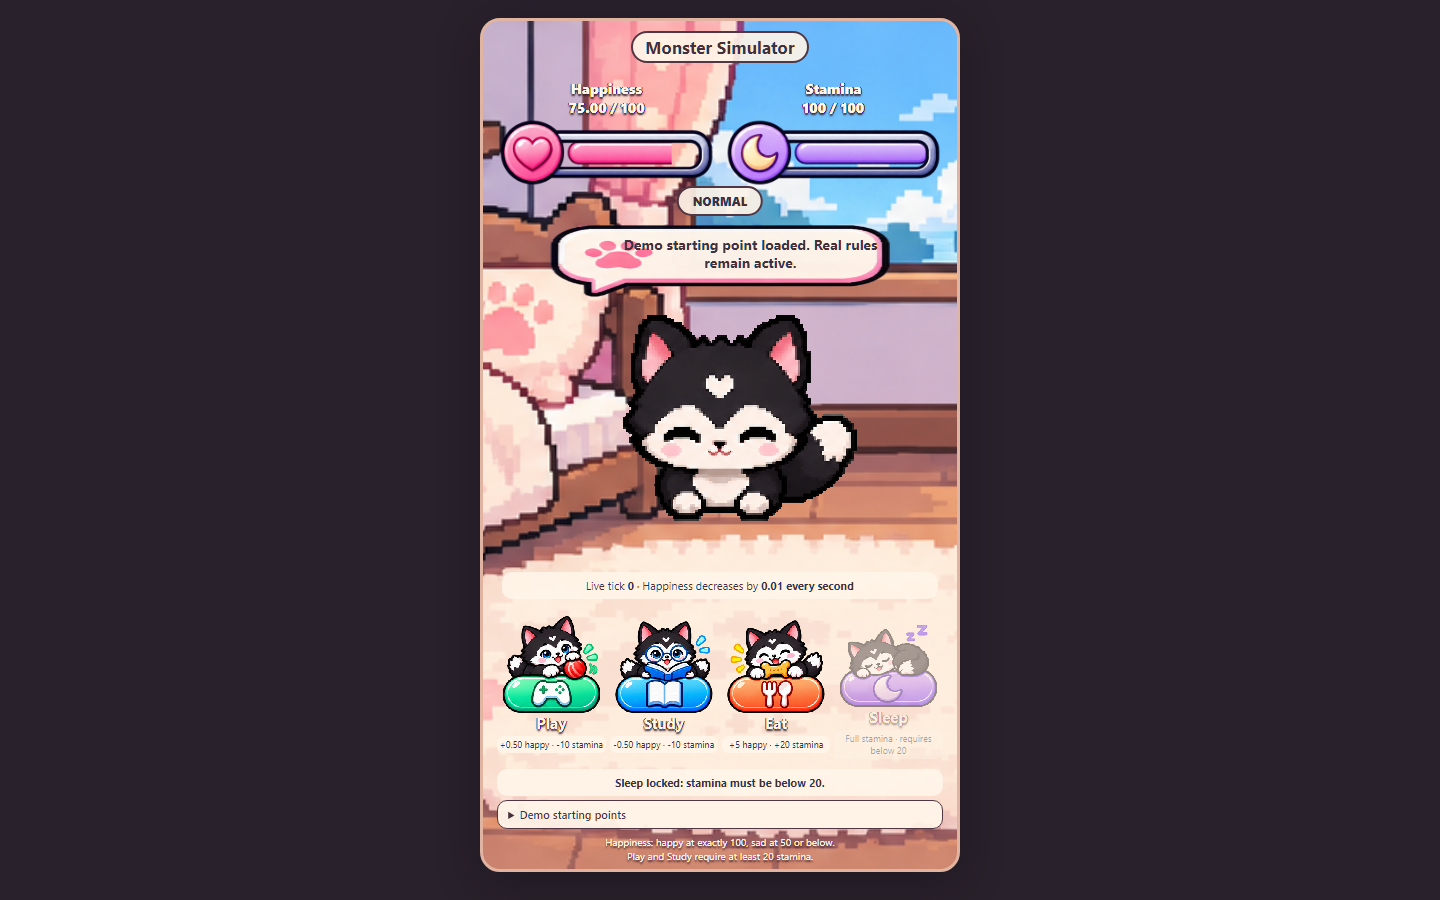
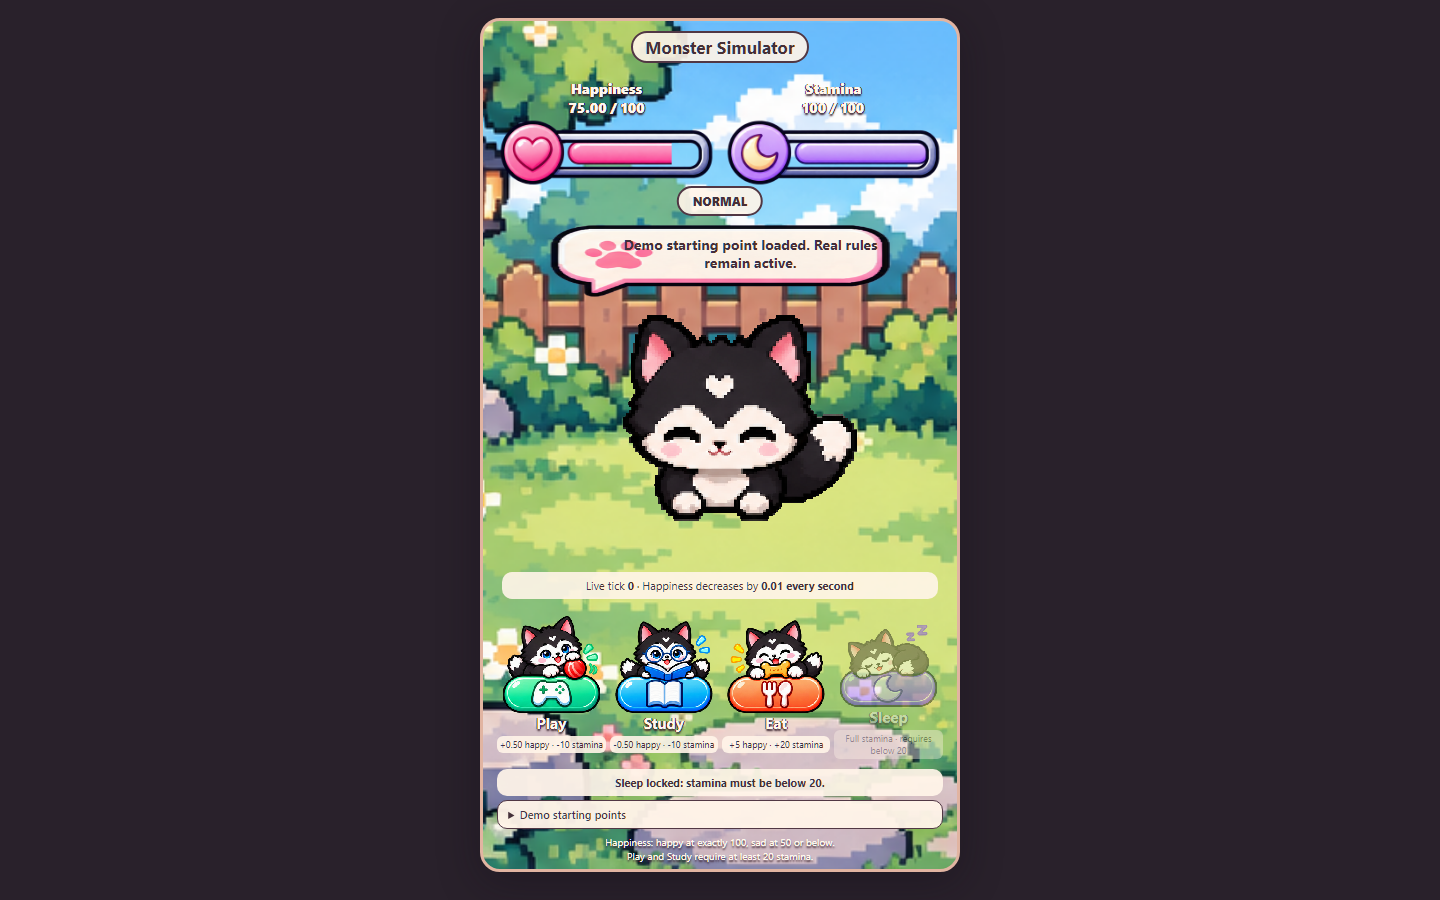
style(monster): use the backyard background

Changed region(s): [[0.3125, 0.0, 0.6875, 0.9644]]

diff --git a/style.css b/style.css
@@ -1,4 +1,4 @@
-:root{font-family:system-ui,sans-serif;color:#443039;background:#29212b}*{box-sizing:border-box}body{margin:0}main{position:relative;width:min(100%,480px);height:854px;min-height:100svh;margin:0 auto;background:url('assets/bedroom.png') center/cover;overflow:hidden}header{position:absolute;top:10px;left:0;right:0;text-align:center}h1{display:inline-block;margin:0;padding:3px 12px;border-radius:20px;font-size:17px;background:#fff4e8e8;border:2px solid #513744}.meters{position:absolute;top:58px;left:3%;right:3%;display:grid;grid-template-columns:1fr 1fr;gap:8px;z-index:2}label{position:relative;display:block;text-align:center;font-size:14px;font-weight:800;color:#fff7ed;text-shadow:0 2px 2px #39212d,1px 0 #39212d,-1px 0 #39212d}strong{display:block;font-size:14px;font-variant-numeric:tabular-nums}.meter-art{display:block;position:relative;width:100%;aspect-ratio:496/160}.meter-frame{position:absolute;width:100%;inset:0}.meter-fill{position:absolute;width:65.73%;height:43.75%;left:30.44%;top:28.13%;object-fit:fill}progress{position:absolute;width:1px;height:1px;opacity:0}.room{position:absolute;inset:0;pointer-events:none}.mood{position:absolute;top:165px;left:50%;transform:translateX(-50%);padding:5px 14px;border-radius:30px;background:#fff4e8e8;border:2px solid #513744;font-weight:800;font-size:12px}body[data-mood=happy] .mood{background:#ffe28c}body[data-mood=sad] .mood{background:#c9dbf2}#pet{position:absolute;top:32%;left:50%;transform:translateX(-50%);width:76%;height:36%;object-fit:contain;image-rendering:pixelated}#bubble{position:absolute;top:23.8%;left:13%;width:74%;min-height:76px;margin:0;background:url('assets/speech_bubble.png') center/100% 100% no-repeat;padding:20px 17px 20px 64px;text-align:center;display:flex;align-items:center;justify-content:center;font-size:14px;font-weight:700;line-height:1.25}.decay{position:absolute;top:70%;left:4%;right:4%;margin:0;padding:6px;text-align:center;border-radius:10px;background:#fff4e8e8;font-size:11px}.actions{position:absolute;bottom:110px;left:3%;right:3%;display:grid;grid-template-columns:repeat(4,1fr);gap:4px}button{font:inherit;color:#fff7ed;border:0;background:none;cursor:pointer;padding:0;text-shadow:0 2px 2px #39212d,1px 0 #39212d,-1px 0 #39212d}button img{display:block;width:100%;aspect-ratio:1;object-fit:contain;image-rendering:pixelated;transition:transform .12s}button:hover:enabled img{transform:translateY(-3px)}button:active:enabled img{transform:scale(.94)}button:focus-visible{outline:3px solid #fff2ba;outline-offset:2px;border-radius:10px}button:disabled{opacity:.42;cursor:not-allowed}button b{display:block;font-size:15px;margin-top:-7px}button small{display:block;font-size:9px;line-height:1.4;margin-top:3px}#restriction{position:absolute;bottom:73px;left:3%;right:3%;margin:0;background:#fff4e8ee;padding:6px;border-radius:10px;text-align:center;font-size:11px;font-weight:700}details{position:absolute;bottom:40px;left:3%;right:3%;z-index:5;font-size:11px;background:#fff4e8f5;border:1px solid #513744;border-radius:10px;padding:6px 10px}summary{cursor:pointer;font-weight:600}details p{line-height:1.5}.demo{display:grid;grid-template-columns:1fr 1fr;gap:6px}.demo button{text-shadow:none;background:#f3dcc9;color:#443039;font-size:12px;padding:8px;border:1px solid #caa38c;border-radius:8px}footer{position:absolute;bottom:6px;left:0;right:0;text-align:center;color:#fff9ef;text-shadow:0 2px 2px #39212d;font-size:10px;line-height:1.35}@media(min-width:600px){main{min-height:0;margin:18px auto;border:3px solid #e1b4a1;border-radius:20px;box-shadow:0 10px 40px #130c1960}}@media(max-width:480px){main{height:max(720px,100svh)}#bubble{font-size:12px;min-height:70px;padding-left:54px}.mood{top:151px}}@media(prefers-reduced-motion:reduce){button img{transition:none}}
+:root{font-family:system-ui,sans-serif;color:#443039;background:#29212b}*{box-sizing:border-box}body{margin:0}main{position:relative;width:min(100%,480px);height:854px;min-height:100svh;margin:0 auto;background:url('assets/garden.png') center/cover;overflow:hidden}header{position:absolute;top:10px;left:0;right:0;text-align:center}h1{display:inline-block;margin:0;padding:3px 12px;border-radius:20px;font-size:17px;background:#fff4e8e8;border:2px solid #513744}.meters{position:absolute;top:58px;left:3%;right:3%;display:grid;grid-template-columns:1fr 1fr;gap:8px;z-index:2}label{position:relative;display:block;text-align:center;font-size:14px;font-weight:800;color:#fff7ed;text-shadow:0 2px 2px #39212d,1px 0 #39212d,-1px 0 #39212d}strong{display:block;font-size:14px;font-variant-numeric:tabular-nums}.meter-art{display:block;position:relative;width:100%;aspect-ratio:496/160}.meter-frame{position:absolute;width:100%;inset:0}.meter-fill{position:absolute;width:65.73%;height:43.75%;left:30.44%;top:28.13%;object-fit:fill}progress{position:absolute;width:1px;height:1px;opacity:0}.room{position:absolute;inset:0;pointer-events:none}.mood{position:absolute;top:165px;left:50%;transform:translateX(-50%);padding:5px 14px;border-radius:30px;background:#fff4e8e8;border:2px solid #513744;font-weight:800;font-size:12px}body[data-mood=happy] .mood{background:#ffe28c}body[data-mood=sad] .mood{background:#c9dbf2}#pet{position:absolute;top:32%;left:50%;transform:translateX(-50%);width:76%;height:36%;object-fit:contain;image-rendering:pixelated}#bubble{position:absolute;top:23.8%;left:13%;width:74%;min-height:76px;margin:0;background:url('assets/speech_bubble.png') center/100% 100% no-repeat;padding:20px 17px 20px 64px;text-align:center;display:flex;align-items:center;justify-content:center;font-size:14px;font-weight:700;line-height:1.25}.decay{position:absolute;top:70%;left:4%;right:4%;margin:0;padding:6px;text-align:center;border-radius:10px;background:#fff4e8e8;font-size:11px}.actions{position:absolute;bottom:110px;left:3%;right:3%;display:grid;grid-template-columns:repeat(4,1fr);gap:4px}button{font:inherit;color:#fff7ed;border:0;background:none;cursor:pointer;padding:0;text-shadow:0 2px 2px #39212d,1px 0 #39212d,-1px 0 #39212d}button img{display:block;width:100%;aspect-ratio:1;object-fit:contain;image-rendering:pixelated;transition:transform .12s}button:hover:enabled img{transform:translateY(-3px)}button:active:enabled img{transform:scale(.94)}button:focus-visible{outline:3px solid #fff2ba;outline-offset:2px;border-radius:10px}button:disabled{opacity:.42;cursor:not-allowed}button b{display:block;font-size:15px;margin-top:-7px}button small{display:block;font-size:9px;line-height:1.4;margin-top:3px}#restriction{position:absolute;bottom:73px;left:3%;right:3%;margin:0;background:#fff4e8ee;padding:6px;border-radius:10px;text-align:center;font-size:11px;font-weight:700}details{position:absolute;bottom:40px;left:3%;right:3%;z-index:5;font-size:11px;background:#fff4e8f5;border:1px solid #513744;border-radius:10px;padding:6px 10px}summary{cursor:pointer;font-weight:600}details p{line-height:1.5}.demo{display:grid;grid-template-columns:1fr 1fr;gap:6px}.demo button{text-shadow:none;background:#f3dcc9;color:#443039;font-size:12px;padding:8px;border:1px solid #caa38c;border-radius:8px}footer{position:absolute;bottom:6px;left:0;right:0;text-align:center;color:#fff9ef;text-shadow:0 2px 2px #39212d;font-size:10px;line-height:1.35}@media(min-width:600px){main{min-height:0;margin:18px auto;border:3px solid #e1b4a1;border-radius:20px;box-shadow:0 10px 40px #130c1960}}@media(max-width:480px){main{height:max(720px,100svh)}#bubble{font-size:12px;min-height:70px;padding-left:54px}.mood{top:151px}}@media(prefers-reduced-motion:reduce){button img{transition:none}}
 
 details[open]{bottom:auto;top:43%;max-height:23%;overflow:auto}
 

diff --git a/README.md b/README.md
@@ -6,7 +6,7 @@ Happiness is capped at 100 and decreases by exactly 0.01 once per second. Play a
 
 Play and Study work at stamina 20 but lock below 20. Sleep works only below 20. Happiness exactly 100 shows the happy animation; 50 or below shows sad. The next passive tick takes 100 to 99.99, so the happy state correctly ends then. Mood animations take priority over action animations.
 
-The model stores integer hundredths to avoid floating-point drift at the exact 100 and 50 boundaries. The layout matches PocketPet: a full-height room, glossy action buttons, floating speech bubble and illustrated meters. Only Happiness, Stamina and the four assignment actions remain. Per-frame body centers keep the tail from shifting the pup sideways. Browser animation frames update sprites at approximately six frames per second. Game ticks are independent of animation speed.
+The model stores integer hundredths to avoid floating-point drift at the exact 100 and 50 boundaries. The layout matches PocketPet: a full-height backyard, glossy action buttons, floating speech bubble and illustrated meters. Only Happiness, Stamina and the four assignment actions remain. Per-frame body centers keep the tail from shifting the pup sideways. Browser animation frames update sprites at approximately six frames per second. Game ticks are independent of animation speed.
 
 Run logic tests with `npm test` using Node.js. Demo starting points are clearly labelled and reset the initial values only; they never change the rules or decay rate. Reload starts a new pet. There is no saved progress.
 

diff --git a/docs/DESIGN_BRIEF.md b/docs/DESIGN_BRIEF.md
@@ -1,5 +1,5 @@
 # Interface
 
-Preserve PocketPet's full-height bedroom, matching glossy buttons, illustrated meters and floating speech bubble. The assignment needs two meters and four actions; these replace the eight-action care layout.
+Preserve PocketPet's full-height backyard, matching glossy buttons, illustrated meters and floating speech bubble. The assignment needs two meters and four actions; these replace the eight-action care layout.
 
 Numeric values and validation text remain visible. Disabled buttons stay in place with reduced opacity. Per-frame body anchors ignore the tail width.

diff --git a/TODO.md b/TODO.md
@@ -11,3 +11,5 @@
 - [x] Center the pup on its body instead of the full tail-inclusive frame.
 
 - [x] Center speech text in the bubble panel while excluding its tail and paw icon.
+
+- [x] Switch the room background to the existing backyard artwork.
